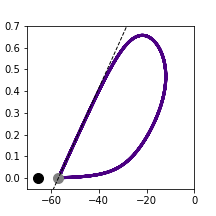
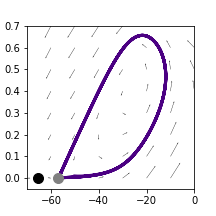
vector field done

diff --git a/Neuron.py b/Neuron.py
@@ -39,7 +39,7 @@ def simulate_neuron(tau_n, Iapp, number, v0, n0, duration, I_noise, dt=.001*ms):
 
     return M.t_, M.i_, Mv.t_, Mv.v_, Mn.n_    
     
-def find_points(tau_n, Iapp, v0=[-75,-27.5,-50]*mV,n0=[.05,0,.01], plot = False):
+def find_points(tau_n, Iapp, v0=[-75,-29.5,-50]*mV,n0=[.05,0,.01], plot = False):
     '''finds the node and lowest point of limimt cycle in terms of voltage values
         trying to define threshold automatically '''
     dt=.00005*ms
@@ -55,7 +55,7 @@ def find_points(tau_n, Iapp, v0=[-75,-27.5,-50]*mV,n0=[.05,0,.01], plot = False)
     if plot:
         plot_bifurcation(t,V[-1],n[-1], node, saddle, sep_slope, cycle_boundary)
         plot_field(tau_n, Iapp, plot=True)
-#        plt.plot(V[-2], n[-2], color = 'grey')
+        plt.plot(V[-2], n[-2], color = 'grey')
         plt.savefig('points/'+file_name+'.png') 
         plt.show()
 
@@ -134,7 +134,7 @@ def plot_bifurcation(t,V,n,node,saddle, sep_slope, cycle_boundary):
     plt.plot(saddle[0], saddle[1], marker = 'o', color = '.5', ms=10)
     y = np.linspace(-.1,.7,50)
     x = sep_slope[0]/sep_slope[1]*(y-saddle[1])+saddle[0]
-#    plt.plot(x,y, color = '0', linestyle = '--',linewidth = 1)
+    plt.plot(x,y, color = '0', linestyle = '--',linewidth = 1)
     plt.xlim((-70,0))
     plt.ylim((-.05,.7))
     
@@ -378,7 +378,7 @@ m_inf = 1./(1+exp((-20-v/mV)/15.)) : 1
 #tau_n = args[0] * ms
 #Iapp = args[1] * uA #/cm**2
 tau_n = .155 * ms
-Iapp = 4.5 * uA #/cm**2
+Iapp = 3.5 * uA #/cm**2
 I_noise = 2.5*uA
 duration = 50*ms
 
